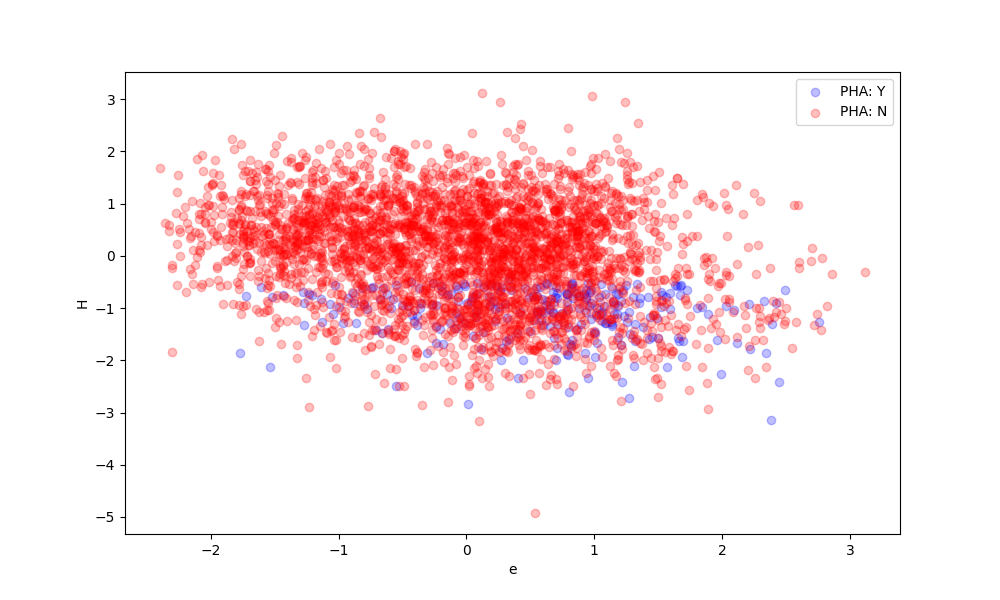
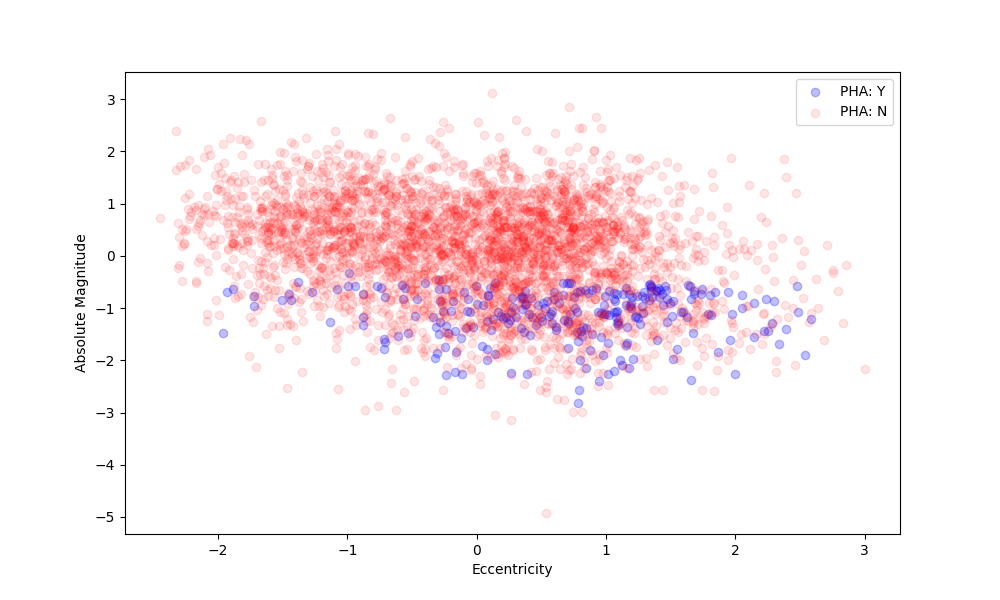
update chart opacity

diff --git a/Code/main.py b/Code/main.py
@@ -56,39 +56,42 @@ def main():
     This combo of eccentricity and absolute magnitude seem to exhibit promising results for
     a classification exercise.... logistic or QDA
     '''
-    # x1 = PHA_Y['e'].to_numpy()
-    # y1 = PHA_Y['H'].to_numpy()
-    # x2 = PHA_N['e'].to_numpy()
-    # y2 = PHA_N['H'].to_numpy()
-    # charts.ScatterPlot2d(x1, y1, x2, y2, 'PHA: Y', 'PHA: N', '', 'e', 'H' )
+    x1 = PHA_Y['e'].to_numpy()
+    y1 = PHA_Y['H'].to_numpy()
+    x2 = PHA_N['e'].to_numpy()
+    y2 = PHA_N['H'].to_numpy()
+    charts.ScatterPlot2d(x1, y1, x2, y2, 'PHA: Y', 'PHA: N', '', 'Eccentricity', 'Absolute Magnitude', 'scatter_e_H.png' )
 
     '''
     This combo of eccentricity and the MOID for Jupiter also seems to exhibit non-linear results
     for classification
     '''
-    # x1 = PHA_Y['e'].to_numpy()
-    # y1 = PHA_Y['moid_jup'].to_numpy()
-    # x2 = PHA_N['e'].to_numpy()
-    # y2 = PHA_N['moid_jup'].to_numpy()
-    # charts.ScatterPlot2d(x1, y1, x2, y2, 'PHA: Y', 'PHA: N', '', 'e', 'moid_jup' )
+    x1 = PHA_Y['e'].to_numpy()
+    y1 = PHA_Y['moid_jup'].to_numpy()
+    x2 = PHA_N['e'].to_numpy()
+    y2 = PHA_N['moid_jup'].to_numpy()
+    charts.ScatterPlot2d(x1, y1, x2, y2, 'PHA: Y', 'PHA: N', '', 'Eccentricity', 'Jupiter Minimum Orbit Intersection Dist (au)', 'scatter_e_moid_jup.png' )
 
     '''
     Theres an interesting almost sinusoidal pattern here and all the PHAs appear below the line
     '''
-    # x1 = PHA_Y['w'].to_numpy()
-    # y1 = PHA_Y['q'].to_numpy()
-    # x2 = PHA_N['w'].to_numpy()
-    # y2 = PHA_N['q'].to_numpy()
-    # charts.ScatterPlot2d(x1, y1, x2, y2, 'PHA: Y', 'PHA: N', '', 'w', 'q' )
-
-
     x1 = PHA_Y['w'].to_numpy()
     y1 = PHA_Y['q'].to_numpy()
-    z1 = PHA_Y['H'].to_numpy()
     x2 = PHA_N['w'].to_numpy()
     y2 = PHA_N['q'].to_numpy()
-    z2 = PHA_N['H'].to_numpy()
-    charts.ScatterPlot3d(x1, y1, z1, x2, y2, z2, 'PHA: Y', 'PHA: N', '', 'w', 'q', 'H')
+    charts.ScatterPlot2d(x1, y1, x2, y2, 'PHA: Y', 'PHA: N', '', 'Argument of Perihelion (deg)', 'Perihelion Distance (au)', 'scatter_w_q.png' )
+
+
+    '''
+    Initial Take at a 3d Cluster
+    '''
+    x1 = PHA_Y['t_jup'].to_numpy()
+    y1 = PHA_Y['moid_jup'].to_numpy()
+    z1 = PHA_Y['e'].to_numpy()
+    x2 = PHA_N['t_jup'].to_numpy()
+    y2 = PHA_N['moid_jup'].to_numpy()
+    z2 = PHA_N['e'].to_numpy()
+    charts.ScatterPlot3d(x1, y1, z1, x2, y2, z2, 'PHA: Y', 'PHA: N', '', 'Jupiter Tisserand Parameter', 'Jupiter Minimum Orbit Intersection Dist (au)', 'Eccentricity', 'scatter_t_jup_moid_jup_e.png')
 
 
     return()

diff --git a/Code/Charts/charts.py b/Code/Charts/charts.py
@@ -3,7 +3,7 @@ from mpl_toolkits.mplot3d import Axes3D
 import numpy as np
 
 
-def ScatterPlot2d(x1, y1, x2, y2, lab1, lab2, title='', xlabel='', ylabel=''):
+def ScatterPlot2d(x1, y1, x2, y2, lab1, lab2, title='', xlabel='', ylabel='', fname=''):
     """
     Plots two sets of data on the same scatter plot with different colors.
     
@@ -19,7 +19,7 @@ def ScatterPlot2d(x1, y1, x2, y2, lab1, lab2, title='', xlabel='', ylabel=''):
     # Create a scatter plot
     plt.figure(figsize=(10, 6))
     plt.scatter(x1, y1, c='blue', label=lab1, alpha=0.25)
-    plt.scatter(x2, y2, c='red', label=lab2, alpha=0.25)
+    plt.scatter(x2, y2, c='red', label=lab2, alpha=0.1)
     
     # Add titles and labels
     plt.title(title)
@@ -30,10 +30,9 @@ def ScatterPlot2d(x1, y1, x2, y2, lab1, lab2, title='', xlabel='', ylabel=''):
     plt.legend()
     
     # Save the plot
-    fname = f'scatter_{xlabel}_{ylabel}.png'
     plt.savefig( fname )
 
-def ScatterPlot3d(x1, y1, z1, x2, y2, z2, labels1, labels2, title='', xlabel='', ylabel='', zlabel=''):
+def ScatterPlot3d(x1, y1, z1, x2, y2, z2, labels1, labels2, title='', xlabel='', ylabel='', zlabel='', fname=''):
     """
     Plots three sets of data on the same 3D scatter plot with different colors and 50% transparency.
     
@@ -53,8 +52,8 @@ def ScatterPlot3d(x1, y1, z1, x2, y2, z2, labels1, labels2, title='', xlabel='',
     fig = plt.figure(figsize=(10, 8))
     ax = fig.add_subplot(111, projection='3d')
     
-    ax.scatter(x1, y1, z1, c='blue', label=labels1, alpha=0.5)
-    ax.scatter(x2, y2, z2, c='red', label=labels2, alpha=0.5)
+    ax.scatter(x1, y1, z1, c='blue', label=labels1, alpha=0.25)
+    ax.scatter(x2, y2, z2, c='red', label=labels2, alpha=0.1)
     
     # Add titles and labels
     ax.set_title(title)
@@ -66,6 +65,5 @@ def ScatterPlot3d(x1, y1, z1, x2, y2, z2, labels1, labels2, title='', xlabel='',
     ax.legend()
 
     # Save the plot
-    fname = f'scatter_{xlabel}_{ylabel}_{zlabel}.png'
     plt.savefig( fname )
  
